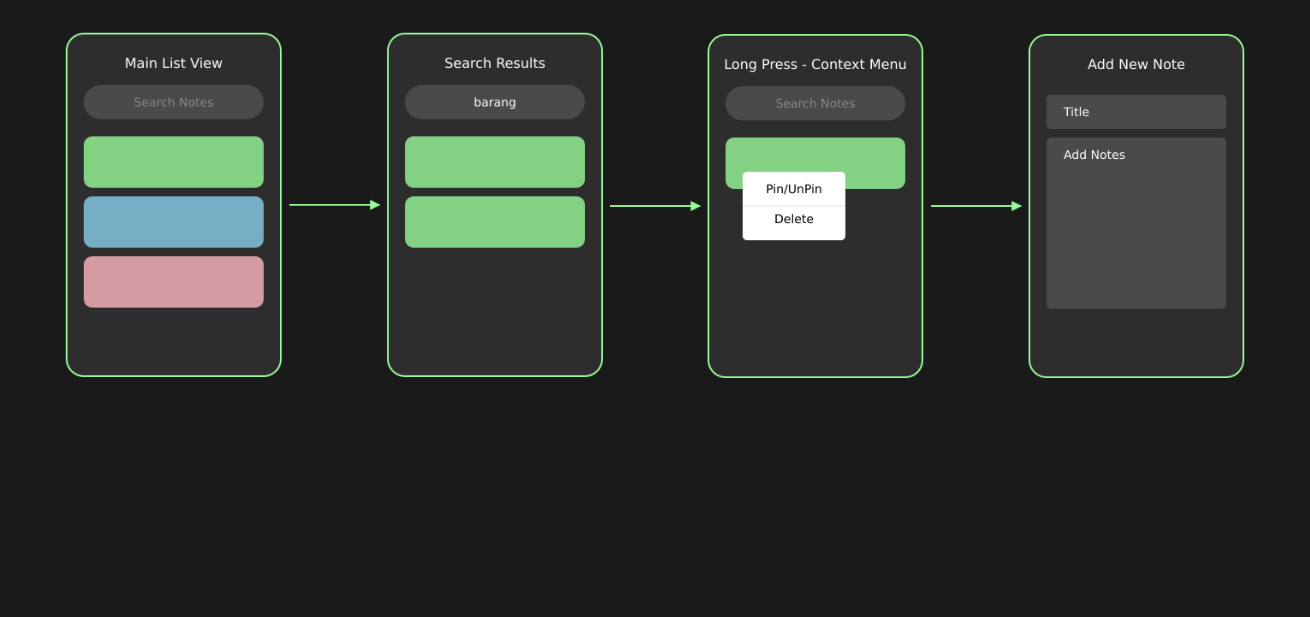
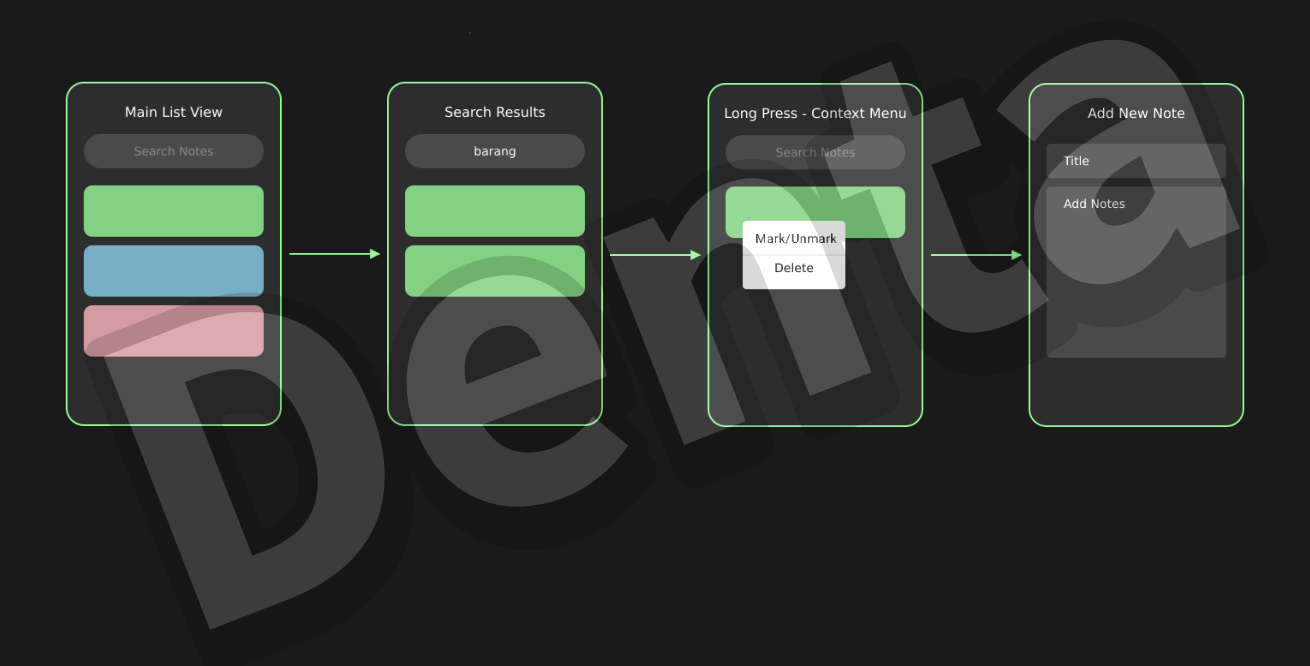
third commit

diff --git a/README.md b/README.md
@@ -15,30 +15,7 @@
 ![alt text](img/storyboard.png)
 
 
-
-
-
-
-**2. Mockup**
-
-![alt text](img/mockup.png)
-
-
-**3. UI & UX**
-
-
-![alt text](img/1.png)
-
-![alt text](img/2.png)
-
-![alt text](img/3.png)
-
-![alt text](img/4.png)
-
-![alt text](img/5.png)
-
-![alt text](img/6.png)
-
-![alt text](img/7.png)
-
-![alt text](img/8.png)
+1. Pada Main List View, terdapat kolom pencarian yaitu search notes yang bisa digunakan untuk mencari notes yang diinginkan.
+2. Pada Search Results, berisi hasil dari pencarian yang ditulis oleh user dari search notes.
+3. Jika long press / menekan lama pada bagian notes, maka terdapat opsi mark / unmark (untuk menandai notes dan menghapus mark pada note) dan delete (untuk menghapus note)
+4. Jika kita Menambahkan note, maka terdapat title dan kolom add notes yang bisa diisi
